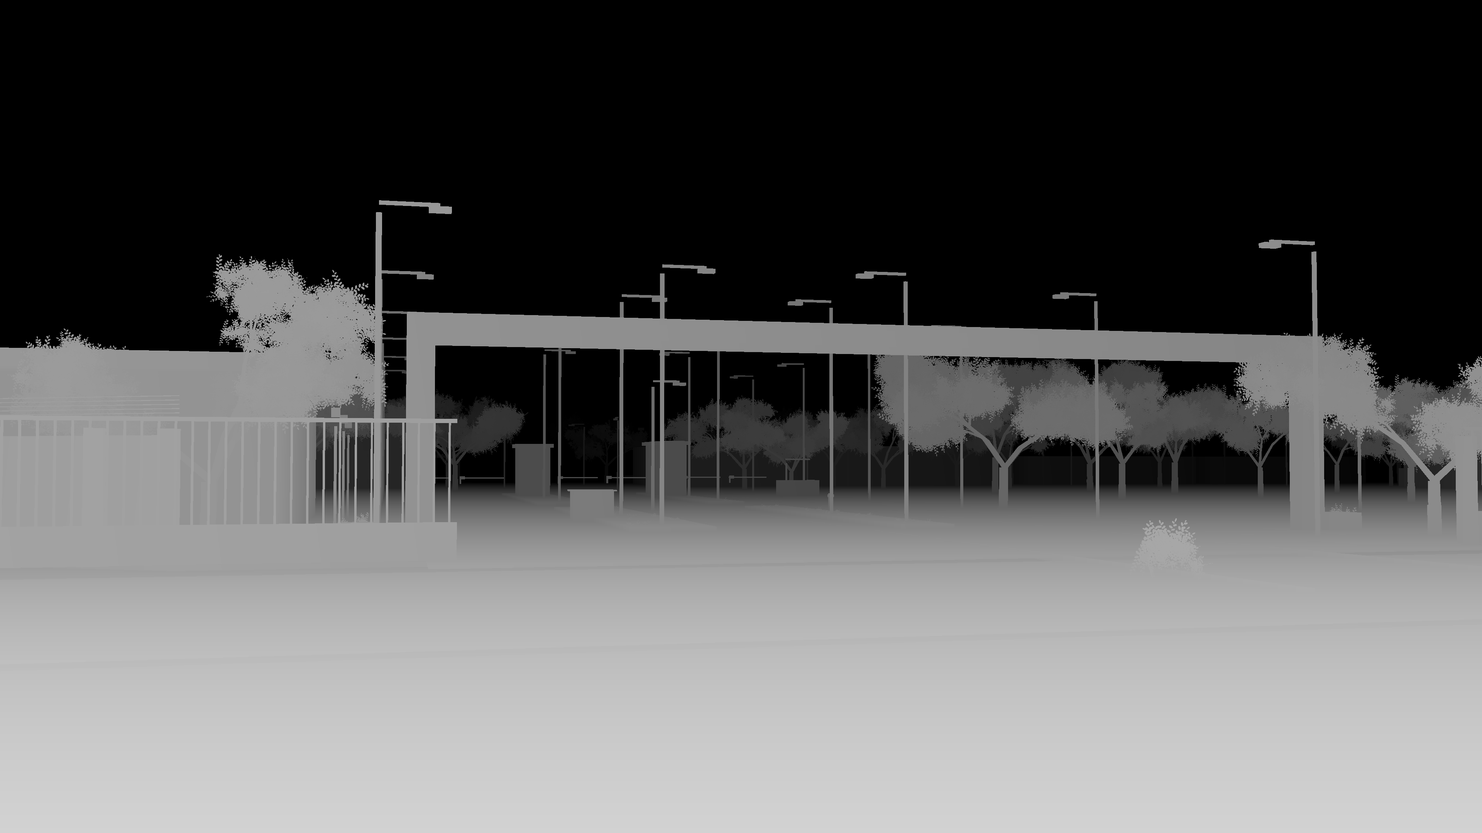
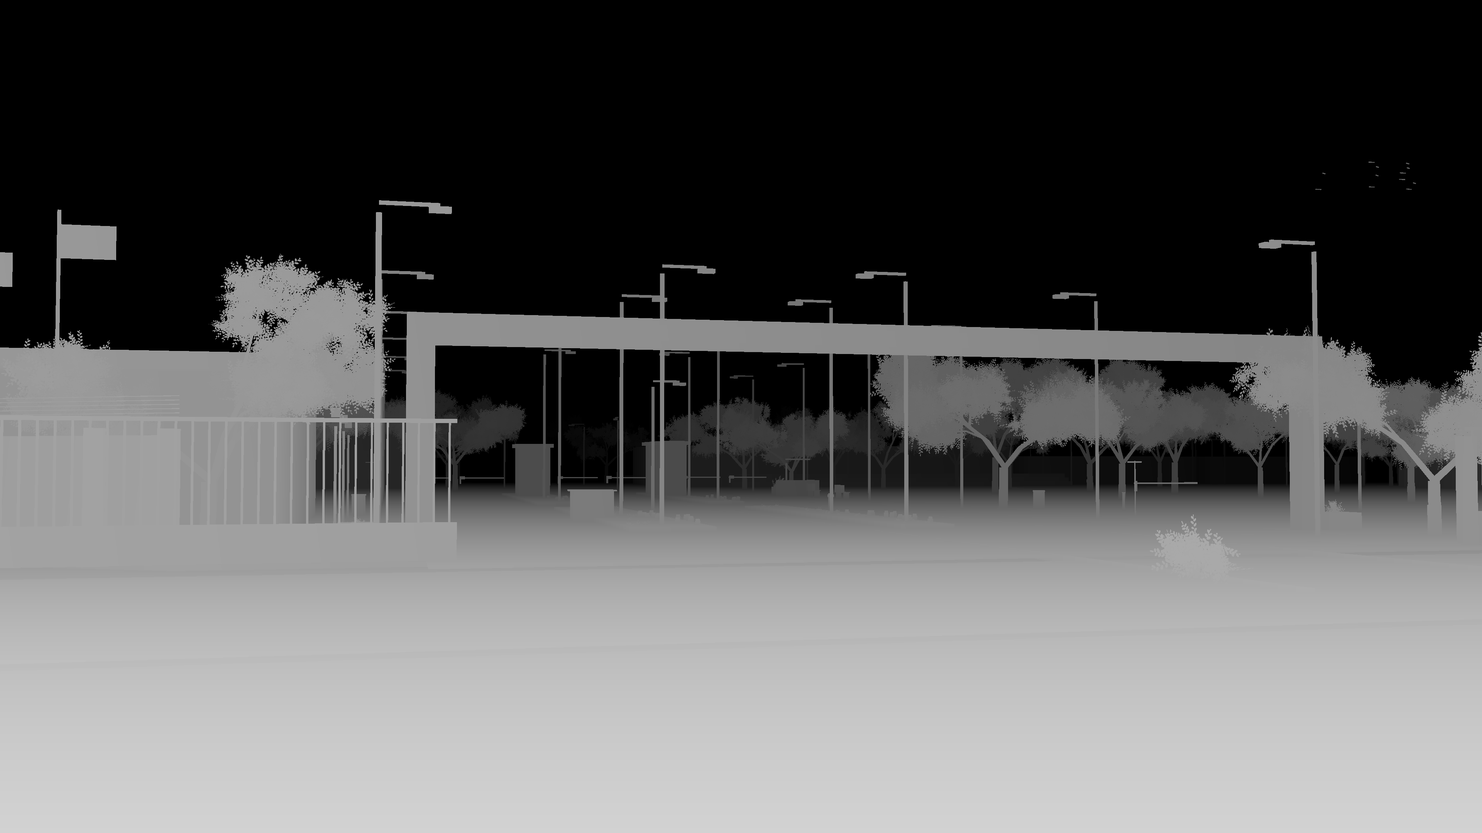
Materiales con textura fina y variación a gran escala, suciedad en la base de los muros, cristal oscuro con reflejo, domo de nubes, sierras en el horizonte, sombras más suaves y gradación de color
Claude-Session: https://claude.ai/code/session_015pLUZwxjrUE2nJNUxegQCN

diff --git a/public/render/foto3d.js b/public/render/foto3d.js
@@ -15,8 +15,8 @@ import * as BGU from "three/addons/utils/BufferGeometryUtils.js";
 
 /* ---------- horas: sol, cielo, exposición ---------- */
 const HORAS = {
-  dia:       { sol: [-0.3, -0.62, 0.72], int: 4.0, colSol: 0xfff4e6, hemi: [0xbfd8f2, 0x8a7a5a, 0.6], turb: 2.5, ray: 1.1, mie: 0.003, mieG: 0.8, expo: 0.8, env: 0.06, bloom: [0.05, 0.4, 1.0], bruma: 0.0012, noche: false, pl: 0, emis: 0 },
-  tarde:     { sol: [-0.6, -0.58, 0.48], int: 3.6, colSol: 0xffe2b8, hemi: [0xb9d0ec, 0x8a7a5a, 0.55], turb: 4, ray: 1.6, mie: 0.005, mieG: 0.82, expo: 0.85, env: 0.07, bloom: [0.07, 0.4, 1.0], bruma: 0.0015, noche: false, pl: 0, emis: 0 },
+  dia:       { sol: [-0.3, -0.62, 0.72], int: 4.0, colSol: 0xfff4e6, hemi: [0xbfd8f2, 0x8a7a5a, 0.6], turb: 2.0, ray: 0.9, mie: 0.0025, mieG: 0.78, expo: 0.72, env: 0.06, bloom: [0.05, 0.4, 1.0], bruma: 0.0012, noche: false, pl: 0, emis: 0 },
+  tarde:     { sol: [-0.6, -0.58, 0.48], int: 3.6, colSol: 0xffe2b8, hemi: [0xb9d0ec, 0x8a7a5a, 0.55], turb: 3, ray: 1.3, mie: 0.004, mieG: 0.8, expo: 0.78, env: 0.07, bloom: [0.07, 0.4, 1.0], bruma: 0.0015, noche: false, pl: 0, emis: 0 },
   atardecer: { sol: [-0.9, -0.32, 0.2], int: 2.8, colSol: 0xffb978, hemi: [0x7f93b8, 0x6e5a44, 0.45], turb: 9, ray: 3.0, mie: 0.02, mieG: 0.9, expo: 0.85, env: 0.07, bloom: [0.15, 0.5, 0.9], bruma: 0.002, noche: false, pl: 1.5, emis: 1.2 },
   noche:     { sol: [-0.3, -0.4, 0.87], int: 0.6, colSol: 0x8aa0ff, hemi: [0x1c2a4a, 0x0c0f16, 0.5], turb: 2, ray: 0.5, mie: 0.001, mieG: 0.7, expo: 1.3, env: 0.15, bloom: [0.3, 0.6, 0.75], bruma: 0.0025, noche: true, pl: 8.0, emis: 1.4 }
 };
@@ -55,6 +55,22 @@ function normalDe(c, n, fuerza) {
   }
   x2.putImageData(out, 0, 0); return c2;
 }
+function grietas(x, n, cuantas, color, ancho) {
+  for (let k = 0; k < cuantas; k++) {
+    let px = rnd() * n, py = rnd() * n, a = rnd() * 6.28; x.strokeStyle = color; x.lineWidth = ancho * (0.6 + rnd()); x.beginPath(); x.moveTo(px, py);
+    for (let j = 0; j < 12 + rnd() * 20; j++) { a += (rnd() - 0.5) * 1.2; px += Math.cos(a) * n * 0.012; py += Math.sin(a) * n * 0.012; x.lineTo(px, py); if (rnd() < 0.12) { x.stroke(); x.beginPath(); x.moveTo(px, py); } }
+    x.stroke();
+  }
+}
+function manchas(x, n, cuantas, color, rmin, rmax) {
+  for (let k = 0; k < cuantas; k++) { const g = x.createRadialGradient(0, 0, 0, 0, 0, 1); g.addColorStop(0, color); g.addColorStop(1, "rgba(0,0,0,0)"); x.save(); x.translate(rnd() * n, rnd() * n); const r = rmin + rnd() * (rmax - rmin); x.scale(r, r * (0.5 + rnd())); x.rotate(rnd() * 3); x.fillStyle = g; x.fillRect(-1, -1, 2, 2); x.restore(); }
+}
+function rugoso(c, n, base, amp) {
+  // mapa de rugosidad a partir de la luminancia (lo claro es un poco más liso)
+  const src = c.getContext("2d").getImageData(0, 0, n, n).data, [c2, x2] = lienzo(n), out = x2.createImageData(n, n), d = out.data;
+  for (let i = 0; i < n * n; i++) { const L = (src[i * 4] * 0.3 + src[i * 4 + 1] * 0.59 + src[i * 4 + 2] * 0.11) / 255; const v = Math.max(0, Math.min(255, (base - amp * (L - 0.5)) * 255)); d[i * 4] = d[i * 4 + 1] = d[i * 4 + 2] = v; d[i * 4 + 3] = 255; }
+  x2.putImageData(out, 0, 0); return c2;
+}
 function tex(c, metros, srgb) {
   const t = new THREE.CanvasTexture(c); t.wrapS = t.wrapT = THREE.RepeatWrapping; t.repeat.set(1 / metros, 1 / metros); t.anisotropy = 8;
   if (srgb) t.colorSpace = THREE.SRGBColorSpace; t.needsUpdate = true; return t;
@@ -62,34 +78,45 @@ function tex(c, metros, srgb) {
 const TEX = {};
 function texturas() {
   let c, x, n;
-  // pasto: base verde con ruido fino y manchas
-  n = 1024; [c, x] = lienzo(n); x.fillStyle = "#6f9a48"; x.fillRect(0, 0, n, n); ruido(x, n, 0.35, 160); ruido(x, n, 0.18, 12);
-  for (let i = 0; i < 14000; i++) { x.fillStyle = `rgba(${40 + rnd() * 60 | 0},${90 + rnd() * 70 | 0},${30 + rnd() * 40 | 0},0.55)`; const px = rnd() * n, py = rnd() * n; x.fillRect(px, py, 1 + rnd() * 2, 3 + rnd() * 7); }
-  TEX.pasto = [tex(c, 3, true), tex(normalDe(c, n, 1.2), 3)];
-  // asfalto: gris oscuro granulado
-  n = 1024; [c, x] = lienzo(n); x.fillStyle = "#4e4e4c"; x.fillRect(0, 0, n, n); ruido(x, n, 0.22, 200); ruido(x, n, 0.12, 24);
-  for (let i = 0; i < 30000; i++) { x.fillStyle = `rgba(${150 + rnd() * 80 | 0},${150 + rnd() * 80 | 0},${150 + rnd() * 70 | 0},${0.08 + rnd() * 0.14})`; x.fillRect(rnd() * n, rnd() * n, 1, 1); }
-  TEX.asfalto = [tex(c, 4, true), tex(normalDe(c, n, 0.6), 4)];
-  // concreto / banqueta: claro, con juntas cada 1.5 m
-  n = 1024; [c, x] = lienzo(n); x.fillStyle = "#c9c5bc"; x.fillRect(0, 0, n, n); ruido(x, n, 0.14, 120); ruido(x, n, 0.07, 18);
-  x.strokeStyle = "rgba(60,58,54,0.55)"; x.lineWidth = 3; for (let k = 0; k <= 4; k++) { x.beginPath(); x.moveTo(k * n / 4, 0); x.lineTo(k * n / 4, n); x.moveTo(0, k * n / 4); x.lineTo(n, k * n / 4); x.stroke(); }
-  TEX.concreto = [tex(c, 6, true), tex(normalDe(c, n, 0.8), 6)];
-  // adoquín / andador: piezas 30 × 15
-  n = 1024; [c, x] = lienzo(n); x.fillStyle = "#cfcac1"; x.fillRect(0, 0, n, n);
+  // pasto: capas de briznas, calvas secas y trébol más oscuro
+  n = 2048; [c, x] = lienzo(n); x.fillStyle = "#5e8a3c"; x.fillRect(0, 0, n, n); ruido(x, n, 0.32, 200); ruido(x, n, 0.18, 24);
+  manchas(x, n, 40, "rgba(150,140,70,0.35)", 60, 200); manchas(x, n, 60, "rgba(30,70,25,0.3)", 40, 140);
+  for (let i = 0; i < 90000; i++) { x.strokeStyle = `hsla(${80 + rnd() * 35},${35 + rnd() * 30}%,${20 + rnd() * 30}%,0.6)`; x.lineWidth = 1 + rnd() * 1.5; const px = rnd() * n, py = rnd() * n, l = 4 + rnd() * 12, a = -1.2 - rnd() * 0.8; x.beginPath(); x.moveTo(px, py); x.lineTo(px + Math.cos(a) * l, py + Math.sin(a) * l); x.stroke(); }
+  TEX.pasto = [tex(c, 3, true), tex(normalDe(c, n, 1.4), 3)];
+  // asfalto: agregado, grietas, parches y manchas de aceite
+  n = 2048; [c, x] = lienzo(n); x.fillStyle = "#4a4a48"; x.fillRect(0, 0, n, n); ruido(x, n, 0.2, 240); ruido(x, n, 0.1, 30);
+  for (let i = 0; i < 120000; i++) { const g = 120 + rnd() * 110; x.fillStyle = `rgba(${g},${g},${g - 8},${0.08 + rnd() * 0.16})`; x.fillRect(rnd() * n, rnd() * n, 1 + rnd(), 1 + rnd()); }
+  manchas(x, n, 25, "rgba(20,20,20,0.35)", 60, 220); manchas(x, n, 12, "rgba(90,90,88,0.3)", 120, 400);
+  x.fillStyle = "rgba(60,60,58,0.5)"; for (let k = 0; k < 4; k++) x.fillRect(rnd() * n, rnd() * n, 200 + rnd() * 400, 120 + rnd() * 300);
+  grietas(x, n, 14, "rgba(25,25,25,0.8)", 2.2); grietas(x, n, 30, "rgba(35,35,35,0.5)", 1.2);
+  TEX.asfalto = [tex(c, 4, true), tex(normalDe(c, n, 0.7), 4), tex(rugoso(c, n, 0.95, 0.25), 4)];
+  // concreto / banqueta: agregado fino, juntas cada 1.5 m, manchas de humedad y grietas finas
+  n = 2048; [c, x] = lienzo(n); x.fillStyle = "#c6c2b8"; x.fillRect(0, 0, n, n); ruido(x, n, 0.12, 160); ruido(x, n, 0.06, 20);
+  for (let i = 0; i < 70000; i++) { const g = 150 + rnd() * 90; x.fillStyle = `rgba(${g},${g - 4},${g - 12},${0.1 + rnd() * 0.15})`; x.fillRect(rnd() * n, rnd() * n, 1 + rnd() * 2, 1 + rnd() * 2); }
+  manchas(x, n, 30, "rgba(90,85,75,0.22)", 80, 300); grietas(x, n, 10, "rgba(70,66,60,0.45)", 1.0);
+  x.strokeStyle = "rgba(60,58,54,0.6)"; x.lineWidth = 4; for (let k = 0; k <= 4; k++) { x.beginPath(); x.moveTo(k * n / 4, 0); x.lineTo(k * n / 4, n); x.moveTo(0, k * n / 4); x.lineTo(n, k * n / 4); x.stroke(); }
+  x.strokeStyle = "rgba(255,255,255,0.25)"; x.lineWidth = 2; for (let k = 0; k <= 4; k++) { x.beginPath(); x.moveTo(k * n / 4 + 3, 0); x.lineTo(k * n / 4 + 3, n); x.moveTo(0, k * n / 4 + 3); x.lineTo(n, k * n / 4 + 3); x.stroke(); }
+  TEX.concreto = [tex(c, 6, true), tex(normalDe(c, n, 1.0), 6), tex(rugoso(c, n, 0.9, 0.2), 6)];
+  // adoquín / andador: piezas 30 × 15 con bisel y variación
+  n = 1024; [c, x] = lienzo(n); x.fillStyle = "#b9b3a8"; x.fillRect(0, 0, n, n);
   const pw = n / 8, ph = n / 16;
-  for (let j = 0; j < 16; j++) for (let i = -1; i < 9; i++) { const ox = (j % 2) * pw / 2; x.fillStyle = `hsl(${35 + rnd() * 10},${8 + rnd() * 8}%,${72 + rnd() * 10}%)`; x.fillRect(i * pw + ox + 2, j * ph + 2, pw - 4, ph - 4); }
-  ruido(x, n, 0.1, 60); TEX.adoquin = [tex(c, 2.4, true), tex(normalDe(c, n, 1.0), 2.4)];
-  // tierra / huerta
-  n = 1024; [c, x] = lienzo(n); x.fillStyle = "#b9a883"; x.fillRect(0, 0, n, n); ruido(x, n, 0.3, 90); ruido(x, n, 0.15, 10);
-  TEX.tierra = [tex(c, 8, true), tex(normalDe(c, n, 0.7), 8)];
+  for (let j = 0; j < 16; j++) for (let i = -1; i < 9; i++) { const ox = (j % 2) * pw / 2; x.fillStyle = `hsl(${30 + rnd() * 14},${8 + rnd() * 10}%,${68 + rnd() * 14}%)`; x.fillRect(i * pw + ox + 3, j * ph + 3, pw - 6, ph - 6); x.fillStyle = "rgba(255,255,255,0.18)"; x.fillRect(i * pw + ox + 3, j * ph + 3, pw - 6, 2); }
+  ruido(x, n, 0.12, 80); manchas(x, n, 12, "rgba(80,75,65,0.2)", 60, 200); TEX.adoquin = [tex(c, 2.4, true), tex(normalDe(c, n, 1.3), 2.4), tex(rugoso(c, n, 0.85, 0.2), 2.4)];
+  // tierra / huerta: terrones, piedritas y surcos
+  n = 2048; [c, x] = lienzo(n); x.fillStyle = "#b5a480"; x.fillRect(0, 0, n, n); ruido(x, n, 0.3, 120); ruido(x, n, 0.18, 14);
+  for (let i = 0; i < 50000; i++) { const g = 90 + rnd() * 120; x.fillStyle = `rgba(${g + 20},${g},${g - 30},${0.25 + rnd() * 0.4})`; x.fillRect(rnd() * n, rnd() * n, 1 + rnd() * 3, 1 + rnd() * 3); }
+  manchas(x, n, 40, "rgba(80,65,40,0.3)", 50, 260); manchas(x, n, 30, "rgba(220,205,170,0.25)", 50, 200);
+  TEX.tierra = [tex(c, 8, true), tex(normalDe(c, n, 0.9), 8)];
   // aplanado de muro: ruido muy fino
-  n = 512; [c, x] = lienzo(n); x.fillStyle = "#ffffff"; x.fillRect(0, 0, n, n); ruido(x, n, 0.08, 64); ruido(x, n, 0.05, 8);
-  TEX.aplanado = [tex(c, 2.5, true), tex(normalDe(c, n, 0.35), 2.5)];
+  n = 1024; [c, x] = lienzo(n); x.fillStyle = "#ffffff"; x.fillRect(0, 0, n, n); ruido(x, n, 0.07, 120); ruido(x, n, 0.05, 12);
+  for (let i = 0; i < 30000; i++) { x.fillStyle = `rgba(0,0,0,${0.03 + rnd() * 0.06})`; x.fillRect(rnd() * n, rnd() * n, 1, 1); }
+  for (let k = 0; k < 60; k++) { x.strokeStyle = `rgba(0,0,0,${0.02 + rnd() * 0.03})`; x.lineWidth = 6 + rnd() * 14; x.beginPath(); const px = rnd() * n, py = rnd() * n; x.moveTo(px, py); x.quadraticCurveTo(px + 100, py + (rnd() - 0.5) * 60, px + 220, py + (rnd() - 0.5) * 40); x.stroke(); }   // llana
+  TEX.aplanado = [tex(c, 2.5, true), tex(normalDe(c, n, 0.5), 2.5), tex(rugoso(c, n, 0.88, 0.12), 2.5)];
   // ladrillo: 24 × 6 cm con junta clara
   n = 1024; [c, x] = lienzo(n); x.fillStyle = "#d9d2c6"; x.fillRect(0, 0, n, n);
   const bw = n / 5, bh = n / 20;
   for (let j = 0; j < 20; j++) for (let i = -1; i < 6; i++) { const ox = (j % 2) * bw / 2; x.fillStyle = `hsl(${12 + rnd() * 10},${48 + rnd() * 14}%,${38 + rnd() * 12}%)`; x.fillRect(i * bw + ox + 3, j * bh + 3, bw - 6, bh - 6); }
-  ruido(x, n, 0.12, 100); TEX.ladrillo = [tex(c, 1.2, true), tex(normalDe(c, n, 1.4), 1.2)];
+  ruido(x, n, 0.12, 100); manchas(x, n, 10, "rgba(40,20,10,0.25)", 60, 200); TEX.ladrillo = [tex(c, 1.2, true), tex(normalDe(c, n, 2.0), 1.2), tex(rugoso(c, n, 0.95, 0.15), 1.2)];
   // madera: veta
   n = 512; [c, x] = lienzo(n); x.fillStyle = "#9a6a3a"; x.fillRect(0, 0, n, n);
   for (let k = 0; k < 140; k++) { x.strokeStyle = `rgba(${40 + rnd() * 50 | 0},${20 + rnd() * 30 | 0},${5 + rnd() * 15 | 0},${0.12 + rnd() * 0.25})`; x.lineWidth = 1 + rnd() * 3; x.beginPath(); const y0 = rnd() * n; x.moveTo(0, y0); x.bezierCurveTo(n * 0.3, y0 + (rnd() - 0.5) * 30, n * 0.7, y0 + (rnd() - 0.5) * 30, n, y0 + (rnd() - 0.5) * 10); x.stroke(); }
@@ -127,6 +154,16 @@ function texturas() {
     x.beginPath(); x.moveTo(x0, n); x.quadraticCurveTo(x0 + dx * 0.3, n - h * 0.6, x0 + dx, n - h); x.stroke();
   }
   TEX.brizna = new THREE.CanvasTexture(c); TEX.brizna.colorSpace = THREE.SRGBColorSpace;
+  // nubes: cúmulos dispersos por ruido con umbral, con base sombreada y bordes suaves; textura RGBA directa (sin alfa premultiplicado del canvas)
+  const nw = 2048, nh = 1024; const dd = new Uint8Array(nw * nh * 4); const oct = []; for (let o = 0; o < 5; o++) { const sN = 6 << o, g = new Float32Array(sN * sN); for (let i = 0; i < sN * sN; i++) g[i] = rnd(); oct.push([sN, g]); }
+  const val = (fx, fy) => { let v = 0, amp = 1, tot = 0; for (const [sN, g] of oct) { const X = fx * sN, Y = fy * sN, x0 = ((Math.floor(X) % sN) + sN) % sN, y0 = ((Math.floor(Y) % sN) + sN) % sN, x1 = (x0 + 1) % sN, y1 = (y0 + 1) % sN, tx = X - Math.floor(X), ty = Y - Math.floor(Y), sx = tx * tx * (3 - 2 * tx), sy = ty * ty * (3 - 2 * ty); const a = g[y0 * sN + x0] * (1 - sx) + g[y0 * sN + x1] * sx, b = g[y1 * sN + x0] * (1 - sx) + g[y1 * sN + x1] * sx; v += (a * (1 - sy) + b * sy) * amp; tot += amp; amp *= 0.55; } return v / tot; };
+  for (let y = 0; y < nh; y++) for (let xx = 0; xx < nw; xx++) {
+    const v = val(xx / nw, y / nh * 2), alt = y / nh;                                       // alt = 1 arriba (fila 0 del DataTexture es el borde inferior de la textura → uv.y 0 = horizonte)
+    const alpha = Math.max(0, Math.min(1, (v - 0.5) * 7)) * Math.max(0, Math.min(1, (alt - 0.05) * 5));
+    const espesor = Math.max(0, v - 0.5) * 6; const lum = Math.round(255 - 70 * Math.min(1, espesor) + 25 * Math.max(0, Math.min(1, (val(xx / nw + 0.004, y / nh * 2 + 0.008) - v) * 14)));
+    const i = (y * nw + xx) * 4; dd[i] = Math.min(255, lum); dd[i + 1] = Math.min(255, lum); dd[i + 2] = Math.min(255, lum + 4); dd[i + 3] = Math.round(alpha * 255);
+  }
+  TEX.nubes = new THREE.DataTexture(dd, nw, nh, THREE.RGBAFormat); TEX.nubes.colorSpace = THREE.SRGBColorSpace; TEX.nubes.wrapS = THREE.RepeatWrapping; TEX.nubes.magFilter = THREE.LinearFilter; TEX.nubes.minFilter = THREE.LinearMipmapLinearFilter; TEX.nubes.generateMipmaps = true; TEX.nubes.needsUpdate = true;
 }
 
 /* ---------- geometría: prismas → caras con UV planar ---------- */
@@ -204,24 +241,34 @@ export class Foto3D {
     this._mats = this._mats || {};
     const c = new THREE.Color(hex); let m;
     const std = (o) => new THREE.MeshStandardMaterial(Object.assign({ color: c, roughness: 0.9, metalness: 0 }, o));
-    const t = (k2) => ({ map: TEX[k2][0], normalMap: TEX[k2][1] });
+    const t = (k2) => Object.assign({ map: TEX[k2][0], normalMap: TEX[k2][1] }, TEX[k2][2] ? { roughnessMap: TEX[k2][2] } : {});
+    const inyectar = (mat, tipo) => {
+      mat.onBeforeCompile = (sh) => {
+        sh.vertexShader = sh.vertexShader.replace("#include <common>", "#include <common>\nvarying vec3 vWp;").replace("#include <worldpos_vertex>", "#include <worldpos_vertex>\nvWp = (modelMatrix * vec4(transformed, 1.0)).xyz;");
+        const extra = tipo === "suelo" ? "diffuseColor.rgb *= 0.8 + 0.4 * fbm(vWp.xy * 0.035); diffuseColor.rgb *= 0.92 + 0.16 * fbm(vWp.xy * 0.5 + 7.0);"
+          : "float mugre = smoothstep(-0.35, 1.1, vWp.z); diffuseColor.rgb *= mix(0.7, 1.0, mugre); diffuseColor.rgb *= 0.94 + 0.12 * fbm(vec2(vWp.x + vWp.y, vWp.z) * 0.9); diffuseColor.rgb *= 1.0 - 0.1 * smoothstep(0.62, 0.95, fbm(vec2((vWp.x + vWp.y) * 2.5, vWp.z * 0.12)));";
+        sh.fragmentShader = sh.fragmentShader.replace("#include <common>", "#include <common>\nvarying vec3 vWp;\nfloat hash2(vec2 p){ return fract(sin(dot(p, vec2(127.1, 311.7))) * 43758.5453); }\nfloat vnoise(vec2 p){ vec2 i = floor(p), f = fract(p); f = f*f*(3.0-2.0*f); return mix(mix(hash2(i), hash2(i+vec2(1.0,0.0)), f.x), mix(hash2(i+vec2(0.0,1.0)), hash2(i+vec2(1.0,1.0)), f.x), f.y); }\nfloat fbm(vec2 p){ return 0.5*vnoise(p) + 0.25*vnoise(p*2.1) + 0.125*vnoise(p*4.3) + 0.0625*vnoise(p*8.7); }")
+          .replace("#include <map_fragment>", "#include <map_fragment>\n" + extra);
+      };
+      return mat;
+    };
     switch (k) {
-      case "pasto": m = std(Object.assign(t("pasto"), { color: c.clone().multiplyScalar(1.15), roughness: 1 })); break;
-      case "asfalto": m = std(Object.assign(t("asfalto"), { color: new THREE.Color(0x8c8c8a), roughness: 0.95 })); break;
-      case "tierra": m = std(Object.assign(t("tierra"), { color: c.clone().multiplyScalar(1.05), roughness: 1 })); break;
-      case "adoquin": m = std(Object.assign(t("adoquin"), { color: c.clone().multiplyScalar(1.05), roughness: 0.85 })); break;
-      case "concreto": m = std(Object.assign(t("concreto"), { color: c.clone().multiplyScalar(1.05), roughness: 0.9 })); break;
-      case "grava": m = std(Object.assign(t("tierra"), { color: c, roughness: 1 })); break;
-      case "ladrillo": m = std(Object.assign(t("ladrillo"), { color: new THREE.Color(0xffffff), roughness: 0.95 })); break;
-      case "cantera": m = std(Object.assign(t("cantera"), { color: c.clone().multiplyScalar(1.1), roughness: 0.9 })); break;
+      case "pasto": m = inyectar(std(Object.assign(t("pasto"), { color: c.clone().multiplyScalar(1.2), roughness: 1 })), "suelo"); break;
+      case "asfalto": m = inyectar(std(Object.assign(t("asfalto"), { color: new THREE.Color(0x9a9a98), roughness: 0.95 })), "suelo"); break;
+      case "tierra": m = inyectar(std(Object.assign(t("tierra"), { color: c.clone().multiplyScalar(1.05), roughness: 1 })), "suelo"); break;
+      case "adoquin": m = inyectar(std(Object.assign(t("adoquin"), { color: c.clone().multiplyScalar(1.05), roughness: 0.85 })), "suelo"); break;
+      case "concreto": m = inyectar(std(Object.assign(t("concreto"), { color: c.clone().multiplyScalar(1.05), roughness: 0.9 })), "suelo"); break;
+      case "grava": m = inyectar(std(Object.assign(t("tierra"), { color: c, roughness: 1 })), "suelo"); break;
+      case "ladrillo": m = inyectar(std(Object.assign(t("ladrillo"), { color: new THREE.Color(0xffffff), roughness: 0.95 })), "muro"); break;
+      case "cantera": m = inyectar(std(Object.assign(t("cantera"), { color: c.clone().multiplyScalar(1.1), roughness: 0.9 })), "muro"); break;
       case "madera": m = std(Object.assign(t("madera"), { color: c.clone().multiplyScalar(1.15), roughness: 0.6 })); break;
       case "corteza": m = std(Object.assign(t("corteza"), { color: c.clone().multiplyScalar(1.7), roughness: 1 })); break;
-      case "aplanado": m = std(Object.assign(t("aplanado"), { color: c, roughness: 0.85 })); break;
-      case "concreto_liso": m = std(Object.assign(t("aplanado"), { color: c, roughness: 0.7 })); break;
+      case "aplanado": m = inyectar(std(Object.assign(t("aplanado"), { color: c, roughness: 0.85 })), "muro"); break;
+      case "concreto_liso": m = inyectar(std(Object.assign(t("aplanado"), { color: c, roughness: 0.7 })), "muro"); break;
       case "metal": m = std({ roughness: 0.45, metalness: 0.6 }); break;
       case "acero": m = std({ roughness: 0.35, metalness: 0.8 }); break;
       case "auto": m = new THREE.MeshPhysicalMaterial({ color: c, roughness: 0.25, metalness: 0.5, clearcoat: 1, clearcoatRoughness: 0.08 }); break;
-      case "vidrio": m = new THREE.MeshPhysicalMaterial({ color: c.clone().multiplyScalar(0.75), roughness: 0.03, metalness: 0.35, transparent: true, opacity: Math.min(0.9, 0.45 + a * 0.35), envMapIntensity: 2.4, side: THREE.DoubleSide, depthWrite: false, clearcoat: 1, clearcoatRoughness: 0.02 }); break;
+      case "vidrio": m = new THREE.MeshPhysicalMaterial({ color: c.clone().multiplyScalar(0.45).lerp(new THREE.Color(0x1a2430), 0.45), roughness: 0.02, metalness: 0.55, transparent: true, opacity: Math.min(0.95, 0.72 + a * 0.2), envMapIntensity: 2.8, side: THREE.DoubleSide, depthWrite: false, clearcoat: 1, clearcoatRoughness: 0.01 }); break;
       case "luz": m = new THREE.MeshStandardMaterial({ color: c, emissive: c, emissiveIntensity: 1.4, roughness: 0.6 }); m.userData.luz = true; break;
       case "arbusto": m = std({ color: c, roughness: 1 }); break;
       default: m = std({});
@@ -329,11 +376,26 @@ export class Foto3D {
       nz.count = j; nz.instanceMatrix.needsUpdate = true; if (nz.instanceColor) nz.instanceColor.needsUpdate = true; this.scene.add(nz); this.nuecesMesh = nz; this.nNueces = j;
     }
   }
+  horizonte() {
+    // sierras lejanas en dos capas (perfil por ruido; más altas al sur y al poniente, como en Torreón) y domo de nubes
+    const vn = (t) => { const i = Math.floor(t), f = t - i, sm = f * f * (3 - 2 * f); const hsh = (k) => { const x = Math.sin(k * 127.1 + 311.7) * 43758.5453; return x - Math.floor(x); }; return hsh(i) * (1 - sm) + hsh(i + 1) * sm; };
+    const perfil = (a, semilla, base, amp) => { const t = a / 360; const v = 0.5 * vn(t * 9 + semilla) + 0.3 * vn(t * 23 + semilla * 3) + 0.15 * vn(t * 61 + semilla * 7) + 0.05 * vn(t * 150 + semilla); const k = a * Math.PI / 180; return base + amp * Math.max(0.05, v - 0.25) * (1 + 0.8 * Math.max(0, -Math.cos(k + 0.5))); };
+    this.sierras = [];
+    for (const [R, semilla, base, amp, col] of [[11000, 1, 180, 900, 0x6b7689], [7500, 5, 120, 520, 0x74808f]]) {
+      const n = 720, pos = [], idx = [];
+      for (let i = 0; i <= n; i++) { const a = i * 360 / n, k = a * Math.PI / 180, x = Math.cos(k) * R, y = Math.sin(k) * R; pos.push(x, y, -200, x, y, perfil(a, semilla, base, amp)); if (i < n) idx.push(i * 2, i * 2 + 1, i * 2 + 2, i * 2 + 1, i * 2 + 3, i * 2 + 2); }
+      const g = new THREE.BufferGeometry(); g.setAttribute("position", new THREE.Float32BufferAttribute(pos, 3)); g.setIndex(idx); g.computeVertexNormals();
+      const m = new THREE.Mesh(g, new THREE.MeshStandardMaterial({ color: col, roughness: 1, side: THREE.DoubleSide })); this.scene.add(m); this.sierras.push(m);
+    }
+    const dg = new THREE.SphereGeometry(7000, 64, 32, 0, Math.PI * 2, 0, Math.PI / 2); const dm = new THREE.MeshBasicMaterial({ map: TEX.nubes, transparent: true, depthWrite: false, side: THREE.BackSide, fog: false, opacity: 0.95 });
+    const dome = new THREE.Mesh(dg, dm); dome.rotation.x = Math.PI / 2; dome.scale.set(1, 0.3, 1); dome.position.z = -150; dome.renderOrder = -5; dome.frustumCulled = false; this.scene.add(dome); this.nubesMesh = dome;
+  }
   suelo() {
+    this.horizonte();
     // el terreno hasta el horizonte, por debajo del suelo de la escena
     const z = (this.esc.suelo_z === undefined ? -0.32 : this.esc.suelo_z) - 0.75;
-    const g = new THREE.PlaneGeometry(12000, 12000, 1, 1); g.translate(0, 0, z);
-    const uv = g.attributes.uv; for (let i = 0; i < uv.count; i++) uv.setXY(i, uv.getX(i) * 12000, uv.getY(i) * 12000);
+    const g = new THREE.PlaneGeometry(30000, 30000, 1, 1); g.translate(0, 0, z);
+    const uv = g.attributes.uv; for (let i = 0; i < uv.count; i++) uv.setXY(i, uv.getX(i) * 30000, uv.getY(i) * 30000);
     const m = new THREE.Mesh(g, this.material("tierra", "#c4b48f", 1)); m.receiveShadow = true; this.scene.add(m);
   }
   /* cielo, sol y luces según la hora */
@@ -347,7 +409,9 @@ export class Foto3D {
     u.turbidity.value = H.turb; u.rayleigh.value = H.ray; u.mieCoefficient.value = H.mie; u.mieDirectionalG.value = H.mieG;
     const Sl = H.noche ? new THREE.Vector3(0.3, 0.4, -0.3) : S;
     u.sunPosition.value.set(Sl.x, Sl.z, -Sl.y); sky.rotation.x = Math.PI / 2;          // el cielo trabaja con +Y arriba; nuestro mundo es +Z arriba
-    u.cloudCoverage.value = H.noche ? 0.1 : (hora === "atardecer" ? 0.45 : 0.3); u.cloudDensity.value = 0.35; u.cloudScale.value = 0.00025; u.showSunDisc.value = 1;
+    u.cloudCoverage.value = 0.0; u.showSunDisc.value = 1;
+    if (this.nubesMesh) { this.nubesMesh.material.color.set(H.noche ? 0x24304a : (hora === "atardecer" ? 0xffc9a0 : 0xffffff)); this.nubesMesh.material.opacity = H.noche ? 0.5 : 0.95; }
+    if (this.sierras) this.sierras.forEach((m, i) => m.material.color.set(H.noche ? 0x141a28 : (hora === "atardecer" ? (i ? 0x7a6a7c : 0x8a7a8c) : (i ? 0x74808f : 0x6b7689))));
     L.add(sky);
     const skyScene = new THREE.Scene(); skyScene.add(sky.clone()); skyScene.children[0].material = sky.material;
     const env = this.pmrem.fromScene(skyScene, 0, 1, 100000); scene.environment = env.texture; scene.environmentIntensity = H.env;
@@ -357,7 +421,7 @@ export class Foto3D {
     sol.position.copy(foco).addScaledVector(S, 800); sol.target.position.copy(foco); L.add(sol); L.add(sol.target);
     sol.castShadow = true; const ext = Math.min(700, Math.max(30, cam.dist * 1.6));
     sol.shadow.mapSize.set(this.opciones.sombras, this.opciones.sombras); sol.shadow.camera.left = -ext; sol.shadow.camera.right = ext; sol.shadow.camera.top = ext; sol.shadow.camera.bottom = -ext;
-    sol.shadow.camera.near = 1; sol.shadow.camera.far = 2000; sol.shadow.bias = -0.0004; sol.shadow.normalBias = 0.02 + ext / 4000; sol.shadow.radius = 2;
+    sol.shadow.camera.near = 1; sol.shadow.camera.far = 2000; sol.shadow.bias = -0.0003; sol.shadow.normalBias = 0.02 + ext / 4000; sol.shadow.radius = 4;
     const hemi = new THREE.HemisphereLight(H.hemi[0], H.hemi[1], H.hemi[2]); hemi.position.set(0, 0, 1); L.add(hemi);
     // luces de la escena (noche y atardecer): las más cercanas a la cámara
     const luces = this.luces.length ? this.luces : this.lamparas.map(l => [l[0], l[1], l[2], 2.6, "#ffd9a0"]);
@@ -427,7 +491,7 @@ export class Foto3D {
     const H = this.H, bloom = new UnrealBloomPass(new THREE.Vector2(w, h), H.bloom[0], H.bloom[1], H.bloom[2]); comp.addPass(bloom);
     comp.addPass(new OutputPass());
     const vin = new ShaderPass({ uniforms: { tDiffuse: { value: null }, f: { value: 0.28 } }, vertexShader: "varying vec2 vUv; void main(){ vUv = uv; gl_Position = projectionMatrix * modelViewMatrix * vec4(position,1.0); }",
-      fragmentShader: "uniform sampler2D tDiffuse; uniform float f; varying vec2 vUv; void main(){ vec4 c = texture2D(tDiffuse, vUv); float d = distance(vUv, vec2(0.5)); c.rgb *= 1.0 - f * smoothstep(0.35, 0.95, d); gl_FragColor = c; }" }); comp.addPass(vin);
+      fragmentShader: "uniform sampler2D tDiffuse; uniform float f; varying vec2 vUv; void main(){ vec4 c = texture2D(tDiffuse, vUv); float d = distance(vUv, vec2(0.5)); c.rgb *= 1.0 - f * smoothstep(0.35, 0.95, d); float l = dot(c.rgb, vec3(0.299, 0.587, 0.114)); c.rgb = mix(vec3(l), c.rgb, 1.1); c.rgb = (c.rgb - 0.5) * 1.06 + 0.5; gl_FragColor = c; }" }); comp.addPass(vin);
     comp.addPass(new SMAAPass(w, h));
     comp.render(); comp.dispose();
     return this.cv;

diff --git a/public/renders/foto/index.html b/public/renders/foto/index.html
@@ -41,7 +41,7 @@
 import Foto3D from "/render/foto3d.js";
 const $ = id => document.getElementById(id), cv = $("foto-canvas"), estado = $("f-estado");
 let F = null, indice = [], escena = null, ultimo = null;
-const API = window.FOTO = { listo: null };
+const API = window.FOTO = { listo: null, motor: () => F };
 function q(k) { return new URLSearchParams(location.search).get(k); }
 async function cargarEscena(id) {
   escena = indice.find(e => e.id === id) || indice[0]; estado.textContent = "Cargando " + escena.titulo + "…";
